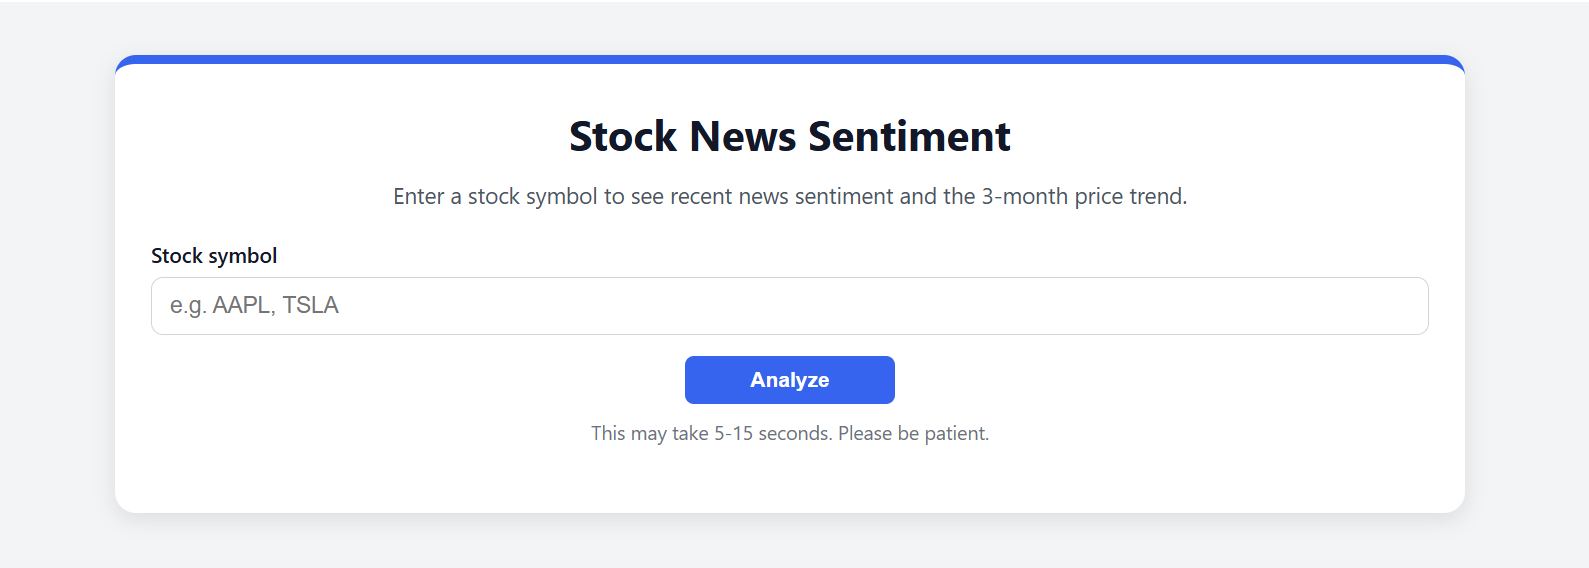
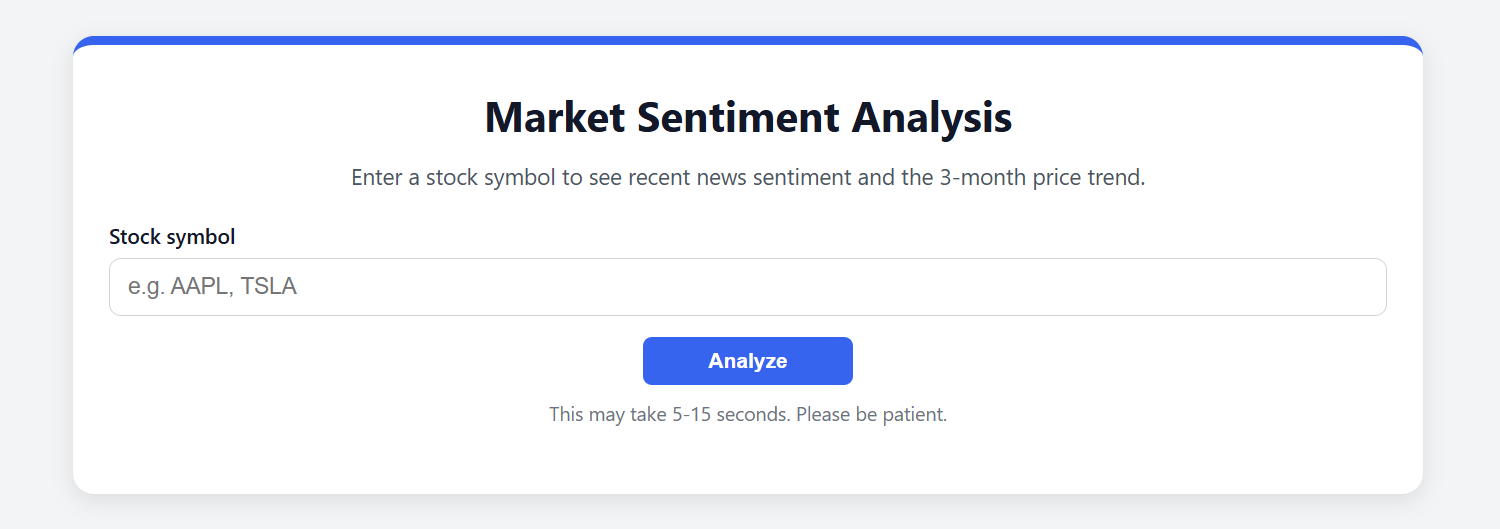
Updated Images

diff --git a/templates/index.html b/templates/index.html
@@ -8,7 +8,7 @@
 <body>
 <div class="container">
     <div class="card">
-        <h1>Stock News Sentiment</h1>
+        <h1>Market Sentiment Analysis</h1>
         <p class="subtitle">
             Enter a stock symbol to see recent news sentiment and the 3-month price trend.
         </p>
